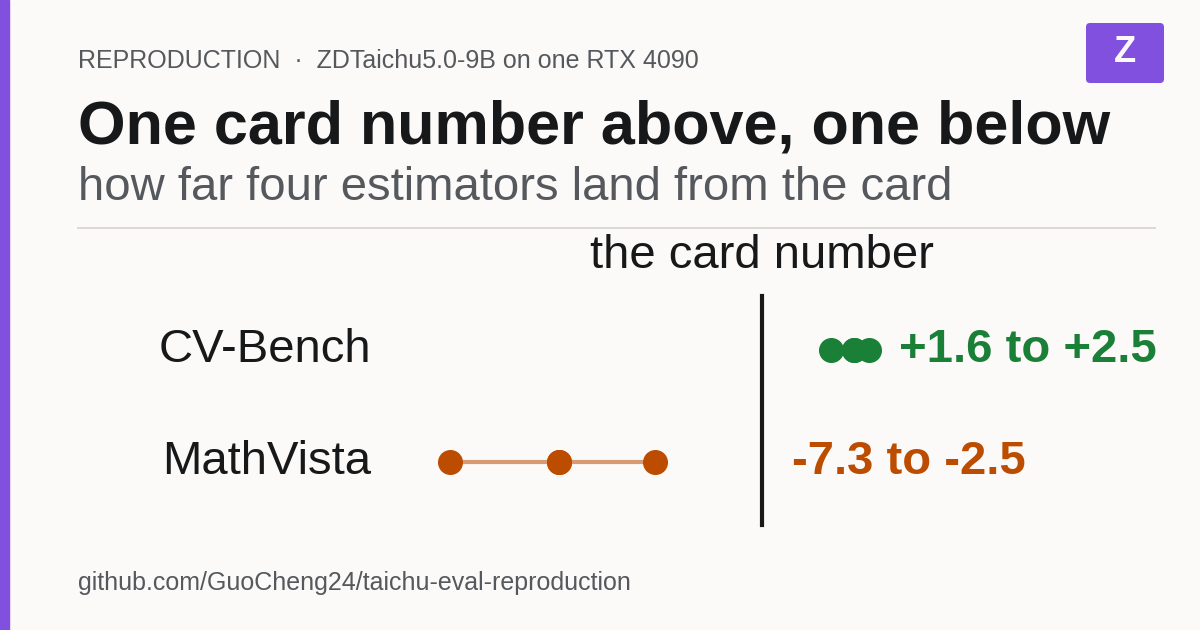
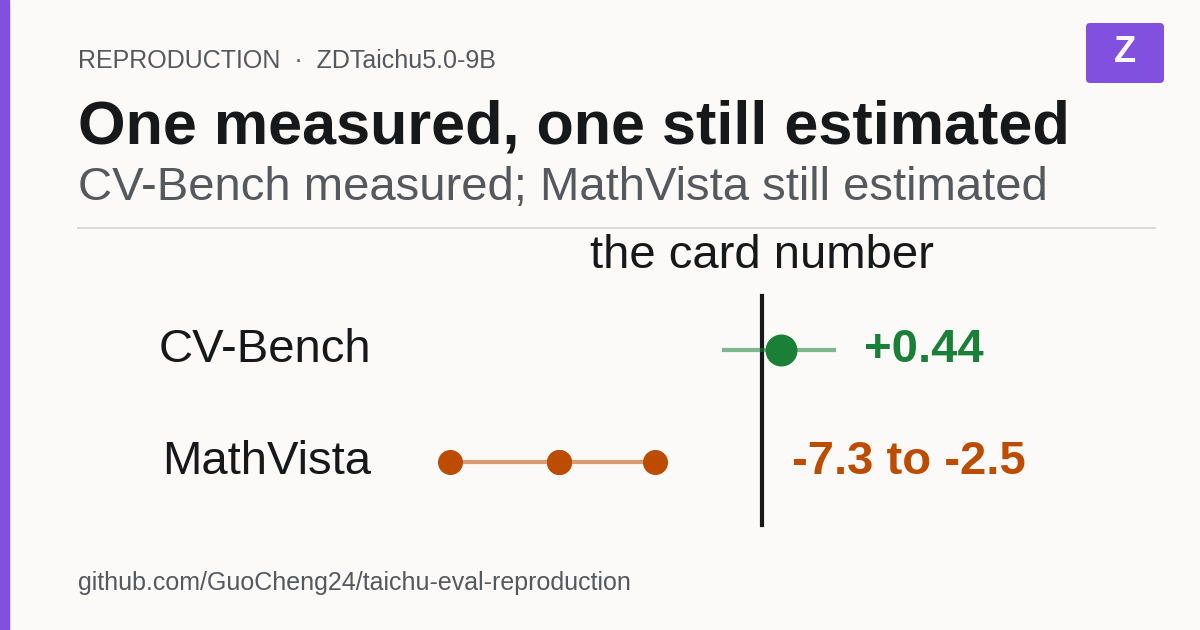
Lead with the CV-Bench measurement, and make the guard survive a reflow
The repository contained a direct measurement of the CV-Bench full set while
the README and the social card still led with the four estimates of it. A page
whose headline disagrees with a results file committed beside it is the exact
failure this reproduction is about, so the CV half now reads:

  87.26%, exact 95% interval [85.93, 88.51], the card's 86.82 inside it,
  +0.44 points away - and the four estimators reported as errors against that
  measurement, all high by +1.19 to +2.07.

MathVista keeps its four estimates and now says plainly that the full-set arm
is running and will supersede them whichever way it comes out.

Rewriting those paragraphs broke four checks in check_readme_numbers.py at
once, and none of them because a number had changed: the sentence patterns
used literal spaces and literal newlines, so reflowing a paragraph moved the
line breaks out from under them. A guard that fails on reflow is a guard people
start ignoring. Whitespace in a pattern now matches any whitespace, and the two
CV sentences that no longer exist are replaced by checks on the ones that do -
the measurement, the interval, the distance from the card, and the estimators'
signed error range. 52 checks, verified failing on a planted wrong number.

The card shows CV-Bench as a measured point with its interval crossing the card
line, MathVista as its four estimator dots, and its own acceptance test refused
two drafts for running off the canvas before the third fit. Read back as an
[…]

Changed region(s): [[0.0617, 0.1508, 0.925, 0.3317], [0.5858, 0.5127, 0.9867, 0.6032], [0.4008, 0.0603, 0.5858, 0.1206]]

diff --git a/.github/assets/make_social_preview.py b/.github/assets/make_social_preview.py
@@ -23,6 +23,11 @@ def values(key):
     return sorted(e["value"] for e in D[key]["estimators"].values()), D[key]["card"]
 
 
+# CV-Bench is no longer estimated: the full set was generated and scored, so its
+# row is the measurement and its exact interval. MathVista's full-set arm is
+# still running, so that row is still the four estimators. Showing both as
+# estimators would be a card that disagrees with its own README.
+FULL_CV = json.loads((ROOT / "results/metrics_fullset_cvbench.json").read_text())
 ROWS = [("CV-Bench", *values("cvbench")), ("MathVista", *values("mathvista"))]
 LO, HI = -8.6, 6.4                       # points away from the card number, shared axis
 
@@ -46,28 +51,40 @@ def chart(ax, accent):
             ha="center")
     for i, (name, vals, cardv) in enumerate(ROWS):
         y = 2.80 - i * 1.12
-        above = min(vals) > cardv
-        colour = "#1a7f37" if above else "#bc4c00"
-        d = [v - cardv for v in vals]
-        ax.plot([X(min(d)), X(max(d))], [y, y], color=colour, lw=3, zorder=3, alpha=0.55)
-        ax.plot([X(v) for v in d], [y] * len(d), "o", ms=17, color=colour, zorder=4)
         ax.text(x0 - 0.24, y, name, fontsize=34, color="#17181a", family=SANS,
                 ha="right", va="center")
-        label = f"+{min(d):.1f} to +{max(d):.1f}" if above else f"{min(d):.1f} to {max(d):.1f}"
-        ax.text(X(max(max(d), 0)) + 0.30, y, label, fontsize=34, fontweight="bold",
+        if name == "CV-Bench":
+            point = FULL_CV["accuracy_pct"] - cardv
+            lo, hi = (v - cardv for v in FULL_CV["ci_pct"])
+            colour = "#1a7f37"
+            ax.plot([X(lo), X(hi)], [y, y], color=colour, lw=3, zorder=3, alpha=0.55)
+            ax.plot([X(point)], [y], "o", ms=22, color=colour, zorder=4)
+            label = f"+{point:.2f}"
+            right = max(hi, point, 0)
+        else:
+            above = min(vals) > cardv
+            colour = "#1a7f37" if above else "#bc4c00"
+            d = [v - cardv for v in vals]
+            ax.plot([X(min(d)), X(max(d))], [y, y], color=colour, lw=3, zorder=3, alpha=0.55)
+            ax.plot([X(v) for v in d], [y] * len(d), "o", ms=17, color=colour, zorder=4)
+            label = (f"+{min(d):.1f} to +{max(d):.1f}" if above
+                     else f"{min(d):.1f} to {max(d):.1f}")
+            right = max(max(d), 0)
+        ax.text(X(right) + 0.30, y, label, fontsize=34, fontweight="bold",
                 color=colour, family=SANS, va="center", ha="left")
 
 
 out = card(
     out=str(pathlib.Path(__file__).parent / "social-preview.png"),
     accent="#8250df", badge="Z",
-    kicker="REPRODUCTION  ·  ZDTaichu5.0-9B on one RTX 4090",
-    headline="One card number above, one below",
-    evidence="how far four estimators land from the card",
+    kicker="REPRODUCTION  ·  ZDTaichu5.0-9B",
+    headline="One measured, one still estimated",
+    evidence="CV-Bench measured; MathVista still estimated",
     chart=chart,
     footer="github.com/GuoCheng24/taichu-eval-reproduction",
     headline_size=44,
 )
 print(f"written {pathlib.Path(out).name}  "
-      f"CV {min(ROWS[0][1]):.2f}-{max(ROWS[0][1]):.2f} vs {ROWS[0][2]}  "
-      f"MV {min(ROWS[1][1]):.2f}-{max(ROWS[1][1]):.2f} vs {ROWS[1][2]}")
+      f"CV measured {FULL_CV['accuracy_pct']:.2f} "
+      f"[{FULL_CV['ci_pct'][0]:.2f}, {FULL_CV['ci_pct'][1]:.2f}] vs {ROWS[0][2]}  "
+      f"MV estimated {min(ROWS[1][1]):.2f}-{max(ROWS[1][1]):.2f} vs {ROWS[1][2]}")

diff --git a/scripts/check_readme_numbers.py b/scripts/check_readme_numbers.py
@@ -253,6 +253,10 @@ def main() -> int:
         )
 
     fresh = representativeness.compute()
+    full_cv = load("metrics_fullset_cvbench.json")   # load() is relative to results/
+    if full_cv is None:
+        sys.exit("results/metrics_fullset_cvbench.json is missing; the page's "
+                 "headline measurement has nothing behind it")
     if load("representativeness.json") != fresh:
         print(
             "  results/representativeness.json is stale -- rerun scripts/representativeness.py"
@@ -345,36 +349,42 @@ def main() -> int:
 
     # ---- the sentences the tables support ----
     def vals(pattern, where=readme):
-        m = re.search(pattern, where)
+        """Match a sentence regardless of where it happens to wrap.
+
+        These patterns used literal spaces and literal newlines, so rewrapping
+        a paragraph broke four checks at once and the guard reported the page
+        as disagreeing with results/ when only the line breaks had moved. A
+        guard that fails on reflow is a guard people start ignoring.
+        """
+        m = re.search(re.sub(r"(?:\\n|[ ])+", r"\\s+", pattern), where)
         return tuple(float(g) for g in m.groups()) if m else None
 
     cv_vals = [e["value"] for e in fresh["cvbench"]["estimators"].values()]
     mv_vals = [e["value"] for e in fresh["mathvista"]["estimators"].values()]
     sentences = [
+        # CV-Bench is no longer estimated on this page: it is measured, and the
+        # estimators are reported as errors against that measurement. So these
+        # check the sentences that are actually there.
         (
-            "the CV-Bench range",
-            vals(r"full set at " + NUM + r"% to " + NUM + "%"),
-            (min(cv_vals), max(cv_vals)),
+            "the CV-Bench measurement",
+            vals(r"budget, \*\*" + NUM + r"%\*\*"),
+            (full_cv["accuracy_pct"],),
         ),
         (
-            "the CV-Bench margin above the card",
-            vals(r"which is " + NUM + r" to " + NUM + r" points \*above\*"),
-            (
-                min(
-                    abs(x)
-                    for x in (
-                        fresh["cvbench"]["shortfall_min"],
-                        fresh["cvbench"]["shortfall_max"],
-                    )
-                ),
-                max(
-                    abs(x)
-                    for x in (
-                        fresh["cvbench"]["shortfall_min"],
-                        fresh["cvbench"]["shortfall_max"],
-                    )
-                ),
-            ),
+            "the CV-Bench interval",
+            vals(r"\*\*\[" + NUM + r", " + NUM + r"\]\*\*"),
+            tuple(full_cv["ci_pct"]),
+        ),
+        (
+            "the CV-Bench distance from the card",
+            vals(r"\+" + NUM + r" points away"),
+            (abs(full_cv["accuracy_pct"] - full_cv["card"]),),
+        ),
+        (
+            "the estimators' signed errors",
+            vals(r"by \+" + NUM + r" to \+" + NUM + r" points"),
+            (min(e["signed_error"] for e in full_cv["estimators"].values()),
+             max(e["signed_error"] for e in full_cv["estimators"].values())),
         ),
         (
             "the MathVista range",

diff --git a/README.md b/README.md
@@ -1,17 +1,30 @@
 # taichu-eval-reproduction
 
 Re-measuring two model-card numbers of [ZDTaichu5.0-9B](https://huggingface.co/TaichuAI/ZDTaichu5.0-9B)
-(Zidong Taichu 5.0, a Qwen3.5 hybrid GatedDeltaNet decoder with a C-RADIOv4-H vision tower) on one RTX 4090:
+(Zidong Taichu 5.0, a Qwen3.5 hybrid GatedDeltaNet decoder with a C-RADIOv4-H vision tower), on
+RTX 4090s and L40s:
 **CV-Bench** (card: 86.82) and **MathVista testmini** (card: 84.50).
 
 On the card's protocol — thinking mode on, answers extracted by an LLM — the two come out
-differently. **CV-Bench reproduces, and slightly high:** every way of reading the thinking-on
-subsample puts the full set at 88.45% to 89.33%, which is 1.63 to 2.51 points *above* the card's
-86.82, with 86.82 inside every interval. **MathVista is not excluded, and does not reach the card
-under any reading:** the same four estimates span 77.20% to 82.00% against 84.50 — short by 2.50 to
-7.30 points — and 84.50 lies inside all four intervals. One hundred items cannot settle that, and
-this page does not claim they do. Off the card's protocol both numbers are far lower, and that part
-of the gap is the protocol rather than the weights.
+differently.
+
+**CV-Bench reproduces. Measured, not estimated:** all 2,638 items, thinking on, an 8,192-token
+budget, **87.26%** with an exact 95% interval of **[85.93, 88.51]** — and the card's 86.82 is inside
+it, +0.44 points away. That measurement supersedes the four estimates this page previously led
+with, which were estimates of exactly this quantity: their intervals all contain 87.26 and their
+point values are all **high**, by +1.19 to +2.07 points, which is what a subsample easier than the
+rest produces. No estimator is preferred retrospectively for having come closest. At this budget
+**0 of 2,638** reasoning blocks failed to close and **0** generations reached the cap, so there is
+one scoring rather than two.
+
+**MathVista is not excluded, and does not reach the card under any reading:** four estimates span
+77.20% to 82.00% against 84.50 — short by 2.50 to 7.30 points — and 84.50 lies inside all four
+intervals. One hundred items cannot settle that, and this page does not claim they do. **The
+full-set arm is running**; when it lands it will supersede these four the way the CV-Bench
+measurement superseded its own, whichever way it comes out.
+
+Off the card's protocol both numbers are far lower, and that part of the gap is the protocol rather
+than the weights.
 
 
 > **On machine names.** Machines are referred to neutrally throughout. The
@@ -27,6 +40,7 @@ of the gap is the protocol rather than the weights.
 |---|---|---|---|---|---|
 | CV-Bench, Cambrian-style overall = (mean(ADE20K, COCO) + Omni3D) / 2 | thinking off, 32-token budget | 2,638 (all) | 82.42% | [81.0, 83.9] (item-level) | 86.82 |
 | CV-Bench, same items, paired | thinking off / **thinking on**, 3,072-token budget | 150 (fixed random subset) | 83.33% / **89.33%** | [83.4, 93.3] for thinking on | 86.82 |
+| **CV-Bench, thinking on, full set** | **thinking on, 8,192-token budget** | **2,638 (all)** | **87.26%** | **[85.93, 88.51]** (Clopper–Pearson) | 86.82 |
 | MathVista testmini | thinking off, 512 tokens, LLM-extracted | 1,000 (all) | 66.70% | [63.7, 69.6] | 84.50 |
 | MathVista testmini | thinking off, 2,048 tokens, LLM-extracted | 1,000 (all) | 73.20% | [70.4, 75.9] | 84.50 |
 | MathVista testmini, same items, paired | thinking off 2,048 / **thinking on** 3,072, LLM-extracted | 100 (fixed random subset) | 78.0% / **82.0%** | [73.3, 88.3] for thinking on | 84.50 |
